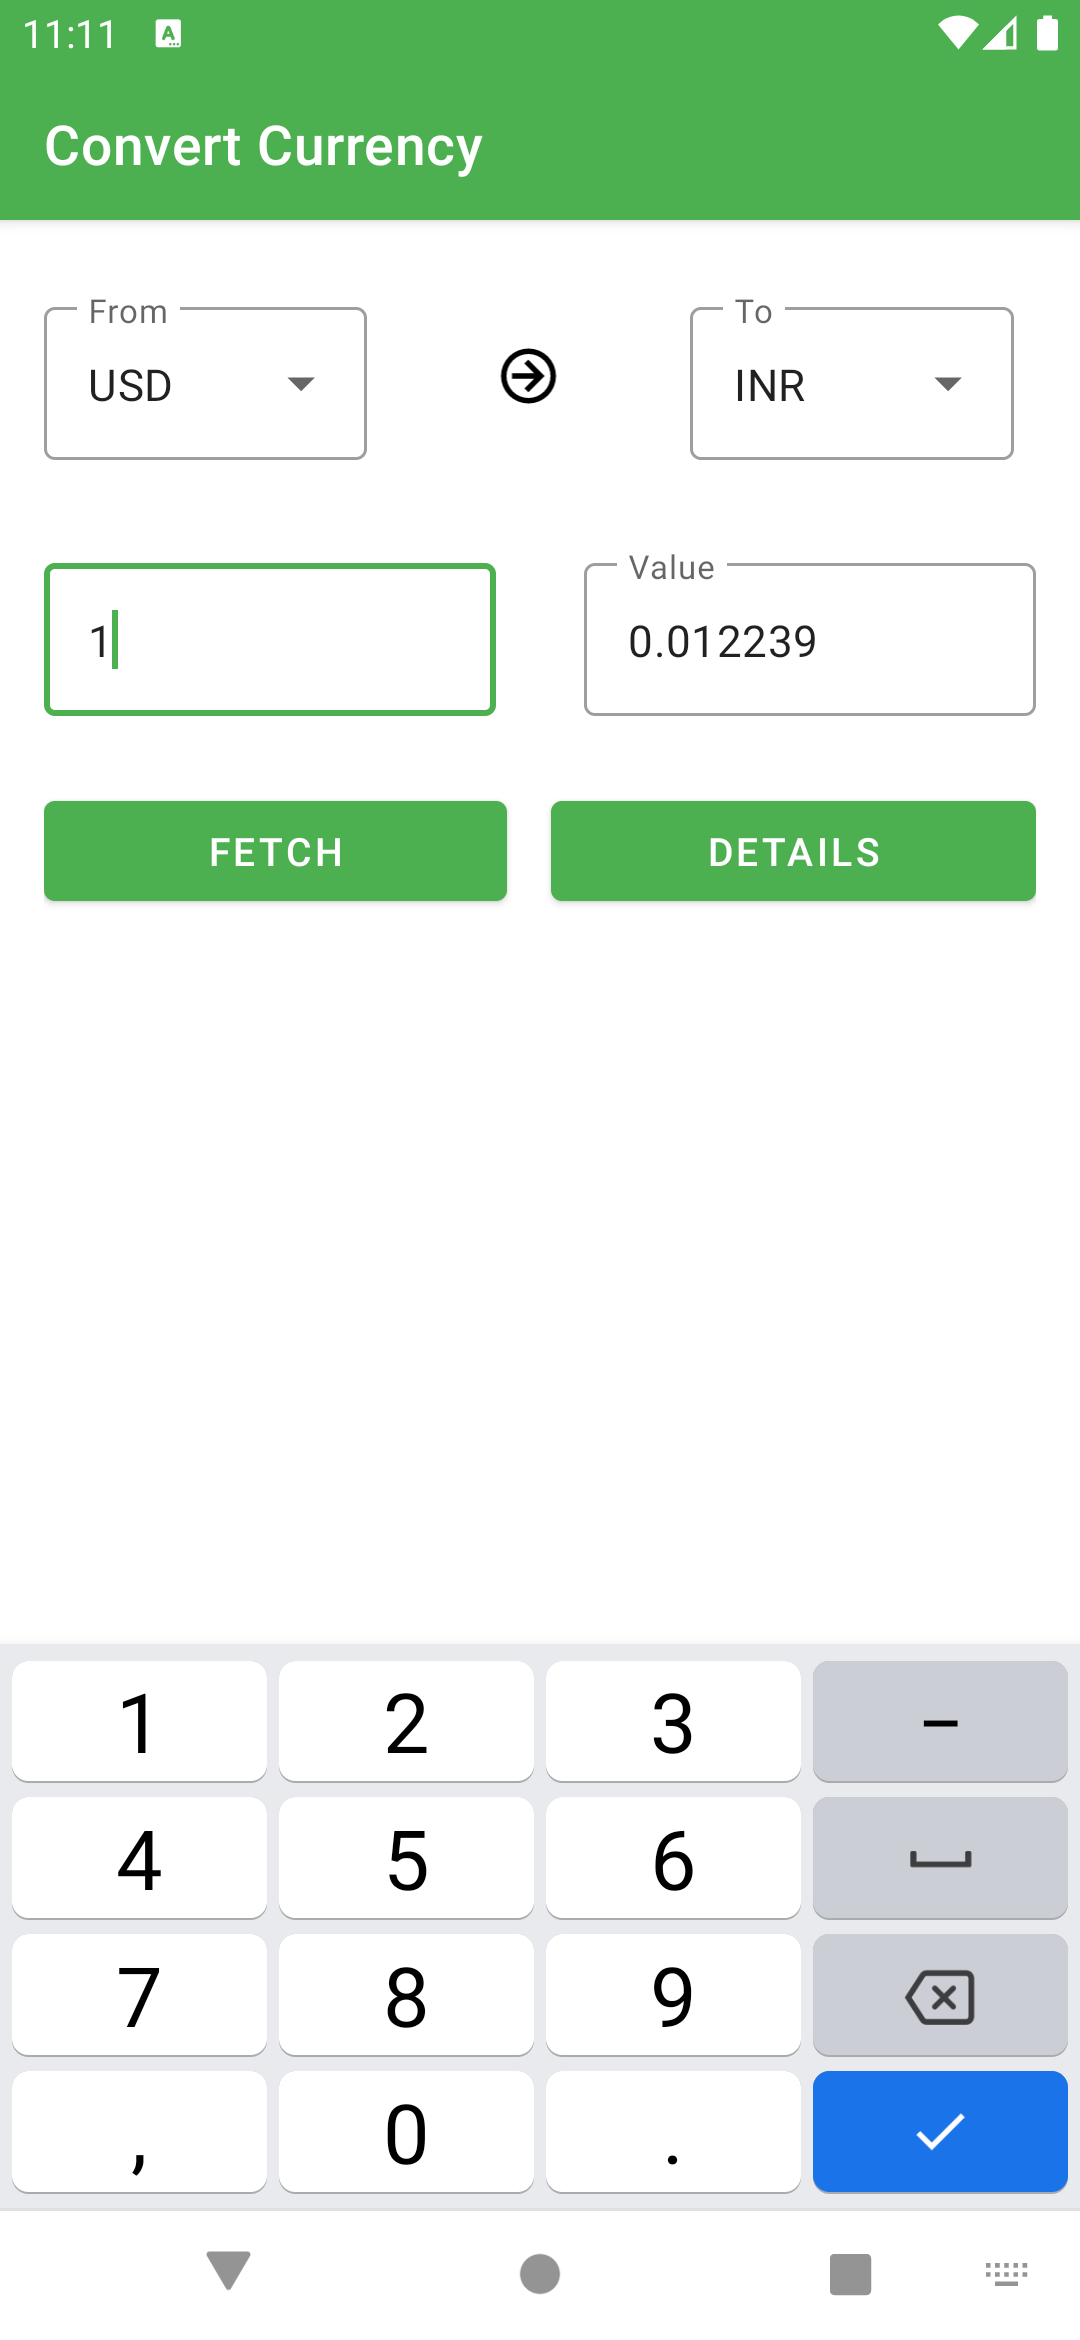
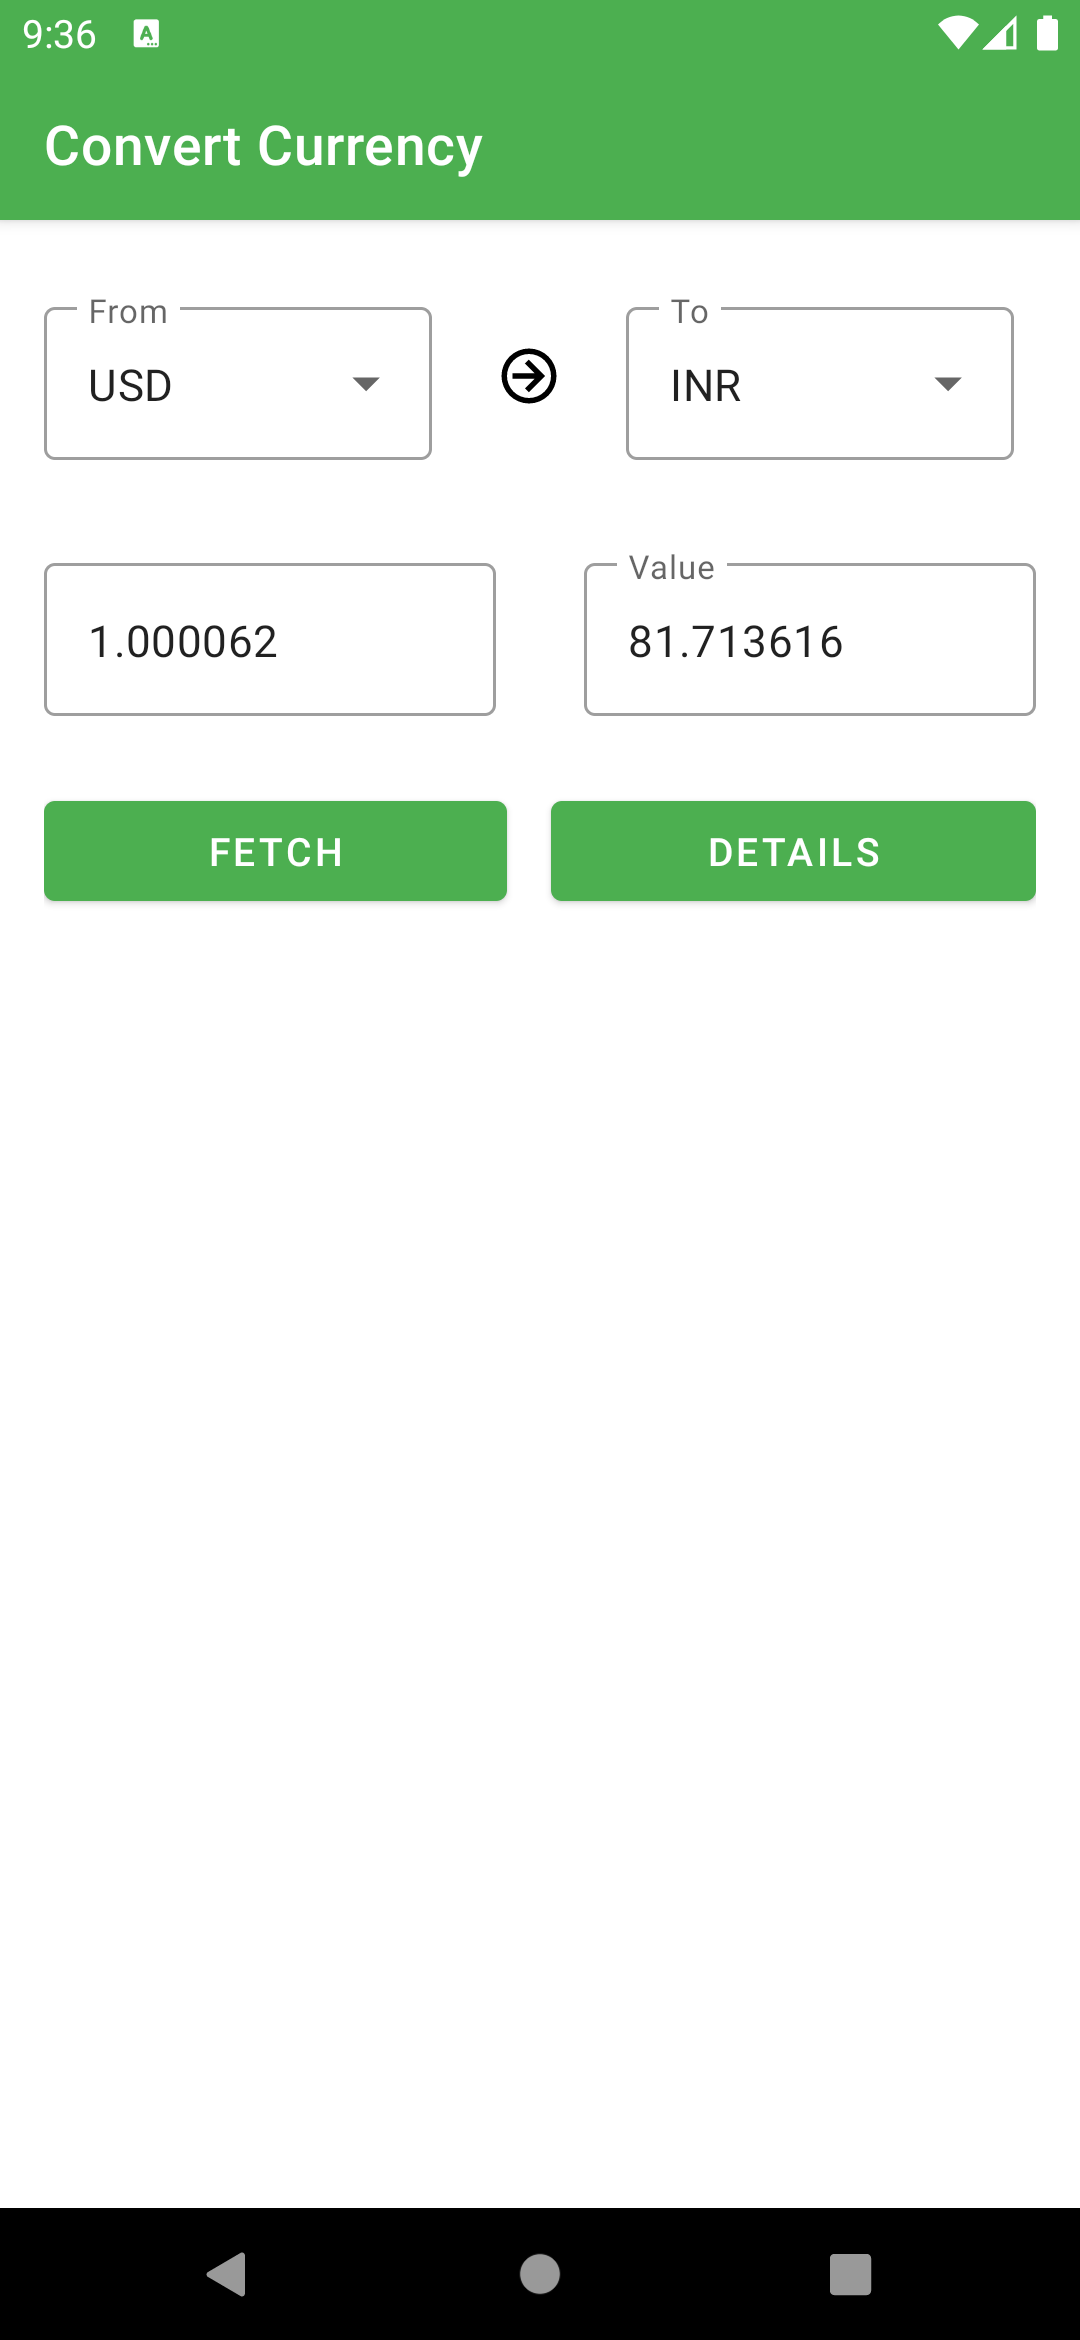
search and imporvment

diff --git a/app/src/main/java/com/andela/practical/presentation/convert_currency/ConvertCurrencyFragment.kt b/app/src/main/java/com/andela/practical/presentation/convert_currency/ConvertCurrencyFragment.kt
@@ -5,12 +5,17 @@ import android.view.LayoutInflater
 import android.view.View
 import android.view.ViewGroup
 import android.widget.ArrayAdapter
+import androidx.core.os.postDelayed
+import androidx.core.widget.doAfterTextChanged
 import androidx.fragment.app.Fragment
 import androidx.fragment.app.viewModels
 import androidx.navigation.fragment.findNavController
 import com.andela.practical.R
 import com.andela.practical.databinding.FragmentConvertCurrencyBinding
-import com.andela.practical.util.*
+import com.andela.practical.util.Logger
+import com.andela.practical.util.Resource
+import com.andela.practical.util.isNetworkAvailable
+import com.andela.practical.util.toast
 import dagger.hilt.android.AndroidEntryPoint
 
 @AndroidEntryPoint
@@ -32,6 +37,7 @@ class ConvertCurrencyFragment : Fragment() {
     private var toCurrencySelectedPos: Int = -1
 
     private var swipe: Boolean = true
+    private var counter = 0
 
     override fun onCreateView(
         inflater: LayoutInflater, container: ViewGroup?,
@@ -122,16 +128,42 @@ class ConvertCurrencyFragment : Fragment() {
         }
 
         binding.btnCalculate.setOnClickListener {
+            convert()
+        }
 
-            val to = binding.fromCurrencySpinner.text.toString()
-            val from = binding.toCurrencySpinner.text.toString()
-            val amount = binding.edtBaseCurrency.text.toString()
 
-            if (requireContext().isNetworkAvailable()) {
-                viewModel.fetchValue(to, from, amount)
-            } else {
-                requireContext().toast("No Internet")
+        binding.edtBaseCurrency.doAfterTextChanged {
+            try {
+                binding.edtBaseCurrency.handler.removeCallbacksAndMessages(counter)
+                binding.edtBaseCurrency.handler.postDelayed(500L, ++counter) {
+                    if (binding.edtBaseCurrency.text.toString().isNotEmpty()) {
+                        Logger.d(binding.edtBaseCurrency.text.toString())
+                        convert()
+                    }
+                }
+            } catch (e: Exception) {
+                Logger.d(e.toString())
             }
+
+        }
+
+    }
+
+    private fun convert() {
+        val to = binding.toCurrencySpinner.text.toString()
+        val from = binding.fromCurrencySpinner.text.toString()
+        val amount = binding.edtBaseCurrency.text.toString()
+
+        if (requireContext().isNetworkAvailable()) {
+            Logger.d("from =>$from")
+            Logger.d("to =>$to")
+            Logger.d("amount$amount")
+            Logger.d("swipe $swipe")
+            Logger.d("from $fromCurrencySelectedPos")
+            Logger.d("to $toCurrencySelectedPos")
+            viewModel.fetchValue(to, from, amount)
+        } else {
+            requireContext().toast("No Internet")
         }
     }
 
@@ -152,7 +184,12 @@ class ConvertCurrencyFragment : Fragment() {
                     }
                 }
                 is Resource.Error -> {
-                    it.errorMessage?.let { it1 -> requireActivity().toast(it1) }
+
+                    try {
+                        it.errorMessage?.let { it1 -> requireActivity().toast(it1) }
+                    } catch (e: Exception) {
+                        Logger.d(e.toString())
+                    }
                 }
             }
         }
@@ -169,7 +206,11 @@ class ConvertCurrencyFragment : Fragment() {
                     }
                 }
                 is Resource.Error -> {
-                    requireContext().toast(it.errorMessage.toString())
+                    try {
+                        requireContext().toast(it.errorMessage.toString())
+                    } catch (e: Exception) {
+                        Logger.d(e.toString())
+                    }
                 }
             }
         }
@@ -179,8 +220,6 @@ class ConvertCurrencyFragment : Fragment() {
     private fun bindAdapter() {
         val arrayAdapter =
             ArrayAdapter(requireContext(), R.layout.dropdown_item, currencySymbols)
-        binding.fromCurrencySpinner.setAdapter(arrayAdapter)
-        binding.toCurrencySpinner.setAdapter(arrayAdapter)
 
         binding.fromCurrencySpinner.setAdapter(arrayAdapter)
         binding.toCurrencySpinner.setAdapter(arrayAdapter)

diff --git a/app/src/main/java/com/andela/practical/util/Common.kt b/app/src/main/java/com/andela/practical/util/Common.kt
@@ -3,8 +3,12 @@ package com.andela.practical.util
 import android.content.Context
 import android.net.ConnectivityManager
 import android.net.NetworkCapabilities
+import android.text.Editable
 import android.view.View
+import android.widget.EditText
 import android.widget.Toast
+import androidx.core.os.postDelayed
+import androidx.core.widget.doAfterTextChanged
 import com.google.gson.JsonSyntaxException
 import retrofit2.HttpException
 import javax.net.ssl.HttpsURLConnection
@@ -41,4 +45,14 @@ fun View.visible() {
 
 fun View.invisible() {
     this.visibility = View.INVISIBLE
+}
+
+
+fun EditText.debounce(delay: Long, action: (Editable?) -> Unit) {
+    doAfterTextChanged { text ->
+        var counter = getTag(id) as? Int ?: 0
+        handler.removeCallbacksAndMessages(counter)
+        handler.postDelayed(delay, ++counter) { action(text) }
+        setTag(id, counter)
+    }
 }

diff --git a/app/src/main/java/com/andela/practical/presentation/history/HistoryFragment.kt b/app/src/main/java/com/andela/practical/presentation/history/HistoryFragment.kt
@@ -99,7 +99,11 @@ class HistoryFragment : Fragment() {
                 }
                 is Resource.Error -> {
                     binding.progressBar.gone()
-                    it.errorMessage?.let { it1 -> requireActivity().toast(it1) }
+                    try {
+                        it.errorMessage?.let { it1 -> requireActivity().toast(it1) }
+                    } catch (e: Exception) {
+                        Logger.d("")
+                    }
                 }
             }
         }

diff --git a/app/src/main/java/com/andela/practical/util/ApiConstants.kt b/app/src/main/java/com/andela/practical/util/ApiConstants.kt
@@ -4,7 +4,7 @@ object ApiConstants {
     const val BASE_URL = "https://api.apilayer.com/currency_data/"
     const val ALL_SYMBOL = "list"
     const val CONVERT = "convert"
-    const val KEY = "G41tAZ8pnPfB2q5id9H8HqTufMAwCMxZ\n"
+    const val KEY = "8YzF5ub25ldGx9KC2qduXXDvCWk2c1YH"
     const val TIME_SERIES = "timeframe"
     const val OTHER_CURRENCY = "live"
 }
